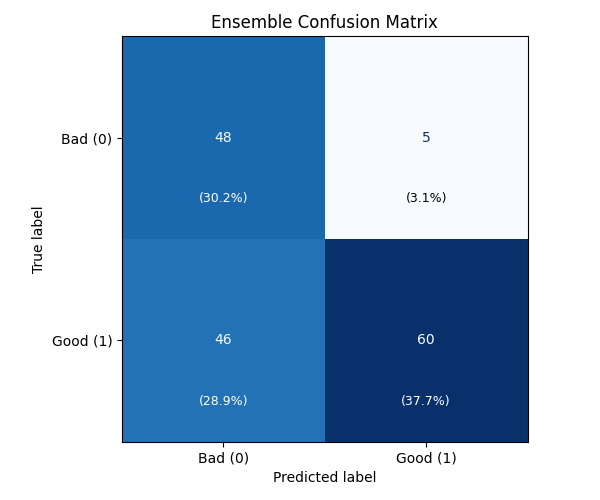
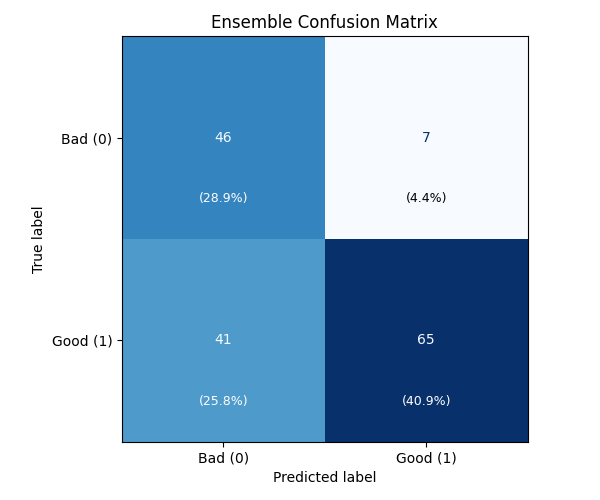
Refresh the credit risk and Thessaloniki case studies

diff --git a/projects/credit-risk-classifier/index.md b/projects/credit-risk-classifier/index.md
@@ -6,9 +6,9 @@ subtitle: A Cost-Sensitive Credit Risk Ensemble on the German Credit Dataset
 
 ## Project summary
 
-This project explores how a machine learning system can support credit approval decisions when the business cost of a bad approval is significantly higher than the cost of rejecting a good applicant. For this reason, we built an end-to-end credit risk pipeline around the [German Credit Dataset](https://archive.ics.uci.edu/dataset/144/statlog+german+credit+data), combining data cleaning, custom feature engineering, model-specific preprocessing, hyperparameter tuning, decision threshold optimization, experiment tracking, and deployment through a Streamlit app.
+This project explores how a machine learning system can support credit approval decisions when the business cost of a bad approval is significantly higher than the cost of rejecting a good applicant. For this reason it is built as an end-to-end credit risk pipeline around the [German Credit Dataset](https://archive.ics.uci.edu/dataset/144/statlog+german+credit+data), combining data cleaning, custom feature engineering, model-specific preprocessing, hyperparameter tuning, decision threshold optimization, experiment tracking, and deployment through a Streamlit app.
 
-The final system uses four complementary classifiers — Logistic Regression, Random Forest, Support Vector Classifier, and CatBoost — combined into a weighted soft-voting ensemble. The goal was not only to improve predictive performance, but also to design a workflow that reflects the realities of risk-sensitive decision making: asymmetric error costs, small-sample uncertainty, and the need for traceable experimentation.
+The final system combines four classifiers (Logistic Regression, Random Forest, Support Vector Classifier, and CatBoost) into a weighted soft-voting ensemble. Predictive performance was one goal. The other was a workflow that reflects how risk-sensitive decisions actually get made, with asymmetric error costs, small-sample uncertainty, and traceable experimentation.
 
 [Try the Live Demo](https://credit-risk-h6wzqyepauzgpp29kypx9e.streamlit.app){: .btn .btn-primary} · [View Repository](https://github.com/ntinasf/credit-risk){: .btn .btn-info}
 
@@ -16,7 +16,7 @@ The final system uses four complementary classifiers — Logistic Regression, Ra
 
 ## The problem
 
-Credit approval is a classification problem, but not a symmetric one. The cost of approving a high-risk borrower is five times higher than the cost of rejecting a potentially good one. Because of that, a plain accuracy-driven approach would have been misleading. Instead, the project was framed around a cost-sensitive objective, where false positives carry a substantially larger penalty than false negatives.
+Credit approval is a classification problem with asymmetric error costs. Approving a high-risk borrower costs five times as much as rejecting a potentially good one. A plain accuracy-driven approach would therefore be misleading, so the project was framed around a cost-sensitive objective where false positives carry the larger penalty.
 
 *Decision cost according to the dataset's documentation:*
 
@@ -30,13 +30,15 @@ This framing influenced the entire workflow:
 - decision threshold optimization
 - ensemble weighting
 
+One design decision follows from it. The cost matrix is applied in a single place, when the decision threshold is chosen on a held-out validation set. Model fitting optimizes ROC AUC, and class weights handle imbalance only. Encoding the 5:1 ratio in both the class weights and the threshold would count it twice.
+
 ---
 
 ## Dataset and preprocessing decisions
 
 The project uses the German Credit Dataset, which is far from ideal in a modern business setting. The dataset is relatively small, somewhat outdated, and includes several variables whose observed relationships are not always intuitive from a real-world lending perspective. That made data preparation especially challenging.
 
-A custom preprocessing script was used to convert the raw dataset into a more readable and analysis-friendly structure based on the original dataset documentation. After cleaning, the data was split into train and test sets using a hash-based strategy to ensure reproducibility.
+A custom preprocessing script was used to convert the raw dataset into a more readable and analysis-friendly structure based on the original dataset documentation. After cleaning, the data was split into train and test sets using a hash-based strategy to ensure reproducibility. The 841 training rows were split again into 691 rows for fitting and 150 for validation, and every stage of the pipeline reads that same split so the partition cannot drift between training, ensemble selection, and the notebook.
 
 ---
 
@@ -53,7 +55,7 @@ The engineered features include:
 - indicator variables such as `no_checking`
 - optional duplicate or polynomial-style features for model-specific benefit
 
-A key design decision was to avoid forcing every model through the exact same feature preprocessing path. Instead, each model goes through its own tailored pipeline, allowing it to operate on the feature representation that suits it best.
+A key design decision was to avoid forcing every model through the exact same feature preprocessing path. Instead, each model goes through its own tailored pipeline, allowing it to operate on the feature representation that suits it best. Depending on the model, the encoders include one-hot, weight of evidence, target, count, and ordinal encoding, plus CatBoost's native categorical handling.
 
 - [See the feature engineering exploration and validation here](https://github.com/ntinasf/credit-risk/blob/main/notebooks/feature_engineering.ipynb)
 
@@ -67,9 +69,16 @@ Rather than relying on one model family, the system combines four complementary 
 - **Support Vector Classifier** for margin-based separation
 - **CatBoost** for boosted-tree performance
 
-Beyond the tailored preprocessing mentioned earlier, two different approaches were used to address the imbalance of the target variable:
-- Logistic Regression and SVC used oversampling techniques such as SMOTE or SVMSMOTE
-- Random Forest and CatBoost used cost-sensitive weighting instead of oversampling.
+Beyond the tailored preprocessing mentioned earlier, bad borrowers make up roughly 29% of the training rows, and each model handles that imbalance in the way that suits it:
+
+| Model | Strategy |
+| --- | --- |
+| Logistic Regression | `SMOTE` inside the pipeline |
+| Support Vector Classifier | `SVMSMOTE` inside the pipeline |
+| Random Forest | `class_weight="balanced"` |
+| CatBoost | `scale_pos_weight` set to the inverse class ratio |
+
+The resampling steps sit inside the pipeline, so they are refit within each cross-validation fold rather than before the split. None of these strategies encode the cost matrix.
 
 Then, each model's hyperparameters were tuned using a Bayesian approach (Gaussian Processes), with the purpose of maximizing ROC AUC through 8-fold cross-validation. This ensured each model was a strong standalone classifier.
 
@@ -77,13 +86,15 @@ Then, each model's hyperparameters were tuned using a Bayesian approach (Gaussia
 
 ### Why an ensemble
 
-The strongest individual model is not necessarily the best final system. Since each algorithm captured different structure in the data, a weighted soft-voting ensemble was used to combine them.
+Each algorithm captured different structure in the data, so a weighted soft-voting ensemble was used to combine them.
 
-The ensemble weights were chosen through a validation-based sweep that ranked the top-15 weight combinations based on ROC AUC first and then precision, reflecting the business goal of reducing costly false approvals. The best-performing ensemble was then threshold-tuned to minimize the custom cost function.
+The weights and the decision threshold were chosen on the validation set, never on the test set. A sweep over 256 weight combinations shortlisted the top 15 by ROC AUC, which is threshold-independent and therefore the right metric while the threshold is still unknown. Each of those 15 candidates then had its threshold tuned to minimize the cost function, and the lowest-cost candidate was promoted. That promoted configuration was scored once against the hold-out test set.
+
+The selection runs as a script rather than by hand, so the shipped weights and threshold are reproducible: re-running it produces the same configuration.
 
 ## Results
 
-The ensemble achieved test-set performance close to its validation performance, which is encouraging given the limited dataset size. More importantly, it outperformed the individual models overall, suggesting that each one contributed complementary information.
+The ensemble achieved test-set performance close to its validation performance, which is encouraging given the limited dataset size.
 
 - [See the analysis and evaluation workflow here](https://github.com/ntinasf/credit-risk/blob/main/notebooks/investigation.ipynb)
 
@@ -93,26 +104,42 @@ The ensemble achieved test-set performance close to its validation performance, 
 | --- | ---: | --- |
 | ROC AUC | 0.82 | Main ranking metric |
 | Average Precision | 0.89 | Useful under class imbalance |
-| Precision | 0.92 | Important due to false approval cost |
-| Recall | 0.56 | Shows how many good borrowers were captured |
-| F1 Score | 0.70 | Balance of precision and recall |
-| Accuracy | 0.68 | Report, but do not overemphasize |
-| Total Cost | 71 | Based on project cost matrix |
-| Average Cost per Applicant | 0.44 | Best business-facing summary |
-| Decision Threshold | 0.84 | Final production threshold |
+| Precision | 0.90 | Important due to false approval cost |
+| Recall | 0.61 | Shows how many good borrowers were captured |
+| F1 Score | 0.73 | Balance of precision and recall |
+| Accuracy | 0.70 | Report, but do not overemphasize |
+| Total Cost | 76 | Based on project cost matrix |
+| Average Cost per Applicant | 0.48 | Best business-facing summary |
+| Decision Threshold | 0.66 | Final production threshold |
 
 ![Confusion matrix for the final ensemble on the test set](/assets/images/credit-risk-classifier/confusion_matrix.png)
 *Confusion matrix for the ensemble on the test set.*
 
 ### Model comparison table
 
+Each model is scored on the test set at its own validation-tuned threshold.
+
 | Model | ROC AUC | Average Precision | Precision | Recall | Accuracy | Average Cost |
 | --- | ---: | ---: | ---: | ---: | ---: | ---: |
-| CatBoost | 0.808 | 0.888 | 0.888 | 0.670 | 0.723 | 0.503 |
+| CatBoost | 0.808 | 0.890 | 0.850 | **0.642** | 0.686 | 0.616 |
 | Logistic Regression | 0.813 | 0.888 | 0.907 | 0.462 | 0.610 | 0.516 |
-| Random Forest | 0.814 | 0.891 | 0.909 | 0.566 | 0.673 | 0.478 |
-| SVC | 0.816 | 0.886 | 0.861 | 0.698 | 0.723 | 0.579 |
-| Ensemble | **0.822** | **0.893** | **0.923** | **0.566** | **0.679** | **0.447** |
+| Random Forest | 0.803 | 0.885 | 0.906 | 0.453 | 0.604 | 0.522 |
+| SVC | 0.817 | 0.893 | **0.910** | 0.575 | 0.679 | **0.472** |
+| Ensemble | **0.823** | **0.895** | 0.903 | 0.613 | **0.698** | 0.478 |
+
+### Reading these numbers honestly
+
+The ensemble leads on the ranking metrics, ROC AUC and average precision, and on accuracy. On the metric the project actually optimizes it does not win: the ensemble costs 76 against SVC's 75. The two are effectively tied.
+
+The ensemble is still the configuration that ships, because it is more stable across the validation candidates than any single model. But this dataset does not demonstrate an ensemble advantage, and it would be wrong to claim one.
+
+Bootstrapping the test set with 5,000 resamples puts the ensemble's cost at 76 with a 95% interval of [51, 104]. Its advantage over simply rejecting every applicant is 30.1, with an interval of [-2, 58], which only just fails to exclude zero. So the model is probably better than doing nothing, but 159 test rows cannot establish it at 95% confidence, and any comparison between configurations differing by less than about 40 cost units is reading noise.
+
+### What the threshold actually does
+
+A 5:1 cost ratio buys precision by refusing business. At the production threshold the system approves 45.3% of applicants. It turns away 41 of the 106 creditworthy applicants in order to avoid 46 of the 53 bad loans. Whether that trade is worth making depends on the margin per good loan against the loss given default, and the 5:1 ratio itself comes from the UCI documentation rather than from any measurement here.
+
+Accuracy deserves a caveat too. Approving every applicant scores 66.7% on this class balance, so an accuracy of 0.70 at a cost-optimal threshold is expected rather than impressive. Cost is the metric worth reading.
 
 ---
 
@@ -127,5 +154,4 @@ This project reflects the full lifecycle of applied machine learning:
 
 ## Limitations
 
-The main limitation is the dataset itself. With only around one thousand records, model comparisons can become unstable, and strong conclusions about generalization should be made carefully. In addition, some variable relationships in the dataset are difficult to interpret from a modern lending standpoint, which limits how confidently one can generalize feature importance findings.
-
+The main limitation is the dataset itself. With only around one thousand records, model comparisons can become unstable, and strong conclusions about generalization should be made carefully. The bootstrap intervals above make that concrete: the gap between the ensemble and the best single model is far smaller than the uncertainty around either number. In addition, some variable relationships in the dataset are difficult to interpret from a modern lending standpoint, which limits how confidently one can generalize feature importance findings.

diff --git a/projects/thessaloniki-airbnb/index.md b/projects/thessaloniki-airbnb/index.md
@@ -135,7 +135,7 @@ The data reveals a concerning fact: **non-Superhost Large operators** deliver th
 
 ![Quality Gap - Superhost vs Non-Superhost by Host Scale](/assets/images/thessaloniki/Quality%20gap%20sh%20vs%20non-sh.png)
 
-These operators represent roughly 25% of the market. They're the newest entrants (mean 2.1 years), expanding rapidly, and apparently tolerating lower ratings because their business model doesn't require quality excellence.
+These operators represent roughly 25% of the market. They're the newest entrants (mean 2.1 years), expanding rapidly, and carrying lower ratings while they do it. Whether that reflects a deliberate trade-off or growing pains, this data does not say.
 
 This seems like a host problem, but could easily evolve into a destination problem. Visitors who experience subpar stays may not distinguish between "bad operator" and "bad destination."
 
@@ -181,7 +181,7 @@ Here's where geography gets interesting. Downtown listings, dominated by Large m
 
 ![Superhost Rate by Distance Zone](/assets/images/thessaloniki/Superhost%20rate%20by%20distance%20zone.png)
 
-The answer here is **competition**. The data shows that downtown's intense competitive environment forces all host categories to elevate their quality standards.
+**Competition is the obvious explanation, and this data cannot confirm it.** What the data shows is that the downtown uplift appears across every host category — consistent with competitive intensity, and equally consistent with downtown simply attracting operators who were already better.
 
 ![Downtown Quality Uplift by Host Category](/assets/images/thessaloniki/Downtown%20quality%20uplift.png)
 
@@ -192,9 +192,9 @@ The answer here is **competition**. The data shows that downtown's intense compe
 | Medium Multi | 45% | **58%** | **+13%** |
 | Large Multi | 32% | **45%** | **+13%** |
 
-Medium multihosts in downtown achieve a whopping **58% superhost rate**, 13 percentage points above their already high market average. Even Large Multi operators perform significantly better downtown (+13%). The competitive intensity of prime locations forces quality adaptation.
+Medium multihosts in downtown achieve a whopping **58% superhost rate**, 13 percentage points above their already high market average. Even Large Multi operators perform significantly better downtown (+13%). The uplift is concentrated in the two most commercial categories.
 
-Downtown doesn't just attract professional operators; it improves them.
+Whether downtown improves operators or simply selects better ones is the question this snapshot cannot answer. Separating the two needs listings tracked as they move in and out of the zone, not a single month.
 
 ### Central Adjacency Does Not Imply Good Positioning
 
@@ -219,7 +219,7 @@ Geography shapes pricing strategy.
 | Neighborhoods | 20% | 53% |
 | Suburban | 43% | 34% |
 
-Downtown commands premium positioning. Inner City is decisively the budget zone. Suburban shows bimodality, likely due to larger properties or unique/niche offerings that justify distance.
+Downtown commands premium positioning. Inner City is decisively the budget zone. Suburban shows bimodality, consistent with larger properties or niche offerings that justify the distance.
 
 ---
 
@@ -286,7 +286,7 @@ Downtown's Low-budget (€40-60) segment and Inner City's Very Low (<€40) segm
 
 ## The Bigger Picture
 
-Thessaloniki's short-term rental market is, by most measures, healthy. High regulatory compliance, competitive dynamics that counter scale advantages, Downtown competition that elevates quality, a diverse host ecosystem serving multiple market segments.
+Thessaloniki's short-term rental market is, by most measures, healthy. High regulatory compliance, scale advantages that do not show up in the quality figures, higher downtown quality across every host category, a diverse host ecosystem serving multiple market segments.
 
 But the data reveals tensions worth monitoring:
 
@@ -298,7 +298,7 @@ But the data reveals tensions worth monitoring:
 
 **Geography concentrates everything.** 86% of listings cluster within 3km of center. Any quality or saturation issues in downtown zone ripple through the entire market.
 
-For policymakers, the implications are clear: **host diversity matters**. The optimal tourism ecosystem isn't one dominated by commercial operators or individual hosts, but it's one where mid-scale professionalization thrives alongside them. Competition enforces quality standards, and regulatory oversight prevents concentration from undermining market health.
+For policymakers, the implications are clear: **host diversity matters**. The optimal tourism ecosystem isn't one dominated by commercial operators or individual hosts, but it's one where mid-scale professionalization thrives alongside them. Quality is highest where competition is most intense, and concentration is lowest where oversight is strongest. Both are associations in a single snapshot, not mechanisms this analysis established.
 
 Thessaloniki's STR market has the pieces in place. The question is whether growth continues to strengthen the ecosystem or begins to erode it.
 

diff --git a/projects/index.md b/projects/index.md
@@ -35,9 +35,9 @@ An evidence-based examination of 4,124 short-term rental listings to assess host
 ### Credit Risk Classification
 **Machine Learning | 2025**
 
-An ensemble machine learning model combining Logistic Regression, Random Forest, and SVC to predict credit risk. Features an interactive Streamlit demo where visitors can test the model.
+An ensemble machine learning model combining Logistic Regression, Random Forest, SVC, and CatBoost to predict credit risk. Features an interactive Streamlit demo where visitors can test the model.
 
-**Tools:** Python, Scikit-learn, MLflow, Streamlit
+**Tools:** Python, Scikit-learn, CatBoost, MLflow, Streamlit, Docker
 
 [View Case Study]({{ site.baseurl }}/projects/credit-risk-classifier){: .btn .btn-primary} · [Try Live Demo](https://credit-risk-h6wzqyepauzgpp29kypx9e.streamlit.app){: .btn .btn-info}
 

diff --git a/index.md b/index.md
@@ -66,7 +66,7 @@ share-description: "Mathematician turned data scientist. Learning-to-rank on Azu
     <p>
       An ensemble ML model with an interactive demo for predicting loan applicant credit risk.
     </p>
-    <p><strong>Tools:</strong> Python, Scikit-learn, MLflow, Streamlit</p>
+    <p><strong>Tools:</strong> Python, Scikit-learn, CatBoost, MLflow, Streamlit, Docker</p>
     <p>
       <a href="{{ site.baseurl }}/projects/credit-risk-classifier" class="btn btn-primary">View Case Study</a>
       <a href="https://credit-risk-h6wzqyepauzgpp29kypx9e.streamlit.app" class="btn btn-info" target="_blank">Try Demo</a>
